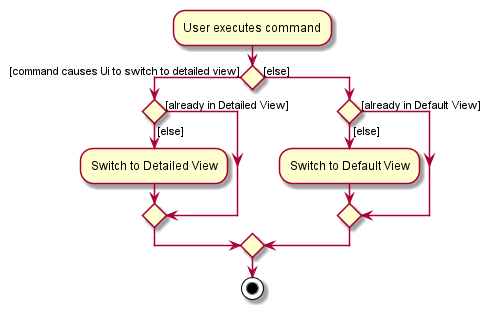
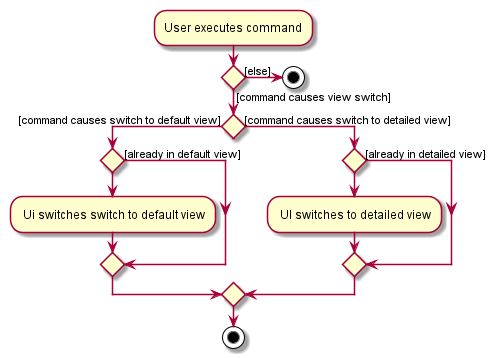
Improve DG

Changed region(s): [[0.0, 0.0, 0.9776, 0.9903]]

diff --git a/docs/DeveloperGuide.md b/docs/DeveloperGuide.md
@@ -145,10 +145,11 @@ regarding the books stored, and the **detailed view** which displays detailed in
 the display of book information.
 When in the summarised view, `MainWindow` renders `BookListPanel` which displays the book information using `BookCard`,
 while in the detailed view, `DetailedBookListPanel` is rendered which displays the book information using
-`DetailedBookCard`.
+`DetailedBookCard`. As there is more information to display, `DetailedBookListPanel` will also use other components
+such as `NoteCard` to display the notes added to the book, if any. 
 
-Both `BookListPanel` and `DetailedBookListPanel` makes use of JavaFX's `ListView` to display the
-list of `BookCard` or `DetailedBookCard` respectively.
+Both `BookListPanel` and `DetailedBookListPanel` makes use of JavaFX's `ListView` to display the `BookCard` or `DetailedBookCard`
+respectively.
 
 The class diagram below shows the relevant classes involved:
 
@@ -160,13 +161,14 @@ The class diagram below shows the relevant classes involved:
 
 `MainWindow#executeCommand()` initializes all changes to what is displayed by the UI by calling `Logic#execute()`
 which returns a `CommandResult`. `MainWindow#executeCommand()` is called when user enters a command into the application.
-From the returned `CommandResult`, `CommandResult#getViewType()` indicates whether the UI should switch to the 
-detailed view, switch to the the default summarised view or remain in whatever view it currently is in. 
-`CommandResult#getViewType()` returns a `ViewType`, of which there are three types: `ViewType.DEFAULT`, `ViewType.DETAILED`
-and `ViewType.MOST_RECENTLY_USED`.
+From the returned `CommandResult`, `CommandResult#getViewType()` indicates how the UI should switch its view.
+`CommandResult#getViewType()` returns a `ViewType`, of which there are three types: 
+   * `ViewType.DEFAULT` - Instructs UI to switch to the default, summarised view
+   * `ViewType.DETAILED` - Instructs UI to switch to the detailed, single book view
+   * `ViewType.MOST_RECENTLY_USED` - Instructs UI to stay in whatever view it is in
 
-Based on the type of `ViewType` returned by `CommandResult#getViewType()`, `MainWindow#changeToDetailedView()`,
-`MainWindow#resetView()`, or no method is called accordingly.
+Based on the type of `ViewType` returned by `CommandResult#getViewType()`, `MainWindow#resetView()`,
+`MainWindow#changeToDetailedView()`, or no method is called accordingly.
 
 The activity diagram below illustrates the flow of execution when the UI decides which view to use:
 
@@ -183,7 +185,7 @@ detailed view:
 
 * **Alternative 1 (current choice):** Use JavaFX ListView
   * Pros: Easy to keep UI up to sync with model by overriding ListCell's updateItem method
-  * Cons: Can allow for displaying of multiple DetailedBookCards even though the detailed view is only meant to show
+  * Cons: Technically allows for displaying of multiple books even though the detailed view is only meant to show
   one book
 
 * **Alternative 2:** Use other JavaFX layouts
@@ -364,7 +366,7 @@ the states that can be undone/redone. It does so by storing `State` objects. Eac
 * `HistoryManager#redo()` — Restores the most recently undone state from its history.
 
 The undo and redo operations are exposed in the `Model` interface as `Model#undo()` and `Model#redo()` respectively.
-Whenever the user enters a one of the following commands:
+Whenever the user enters one of the following commands:
   * `add`
   * `delete`
   * `edit`
@@ -373,9 +375,12 @@ Whenever the user enters a one of the following commands:
   * `sort`
   
 the previous state
-will be saved and a new state created by calling `HistoryManager#addNewState()`. 
-This occurs whenever the methods exposed to modify the model such as: `Model#addBook()`, `Model#removeBook()` 
-and `Model#setBook()` and `Model#setUserPrefs` are called. The class diagram below illustrates the classes that facilitates the undo and redo
+will be saved and a new state created by calling `HistoryManager#addNewState()`.
+This occurs via the methods implemented by `ModelManager` to modify the model such as: `ModelManager#addBook()`, `ModelManager#removeBook()`,
+`ModelManager#setBook()` and `ModelManager#setUserPrefs` are called. When these methods are called, they will
+modify the model and call `HistoryManager#addNewState()` to create a new `State` capturing the state of the modified model,
+to be stored by `HistoryManager`.
+The class diagram below illustrates the classes that facilitates the undo and redo
 feature.
 
 ![UndoRedoClassDiagram](images/UndoRedoClassDiagram.png)
